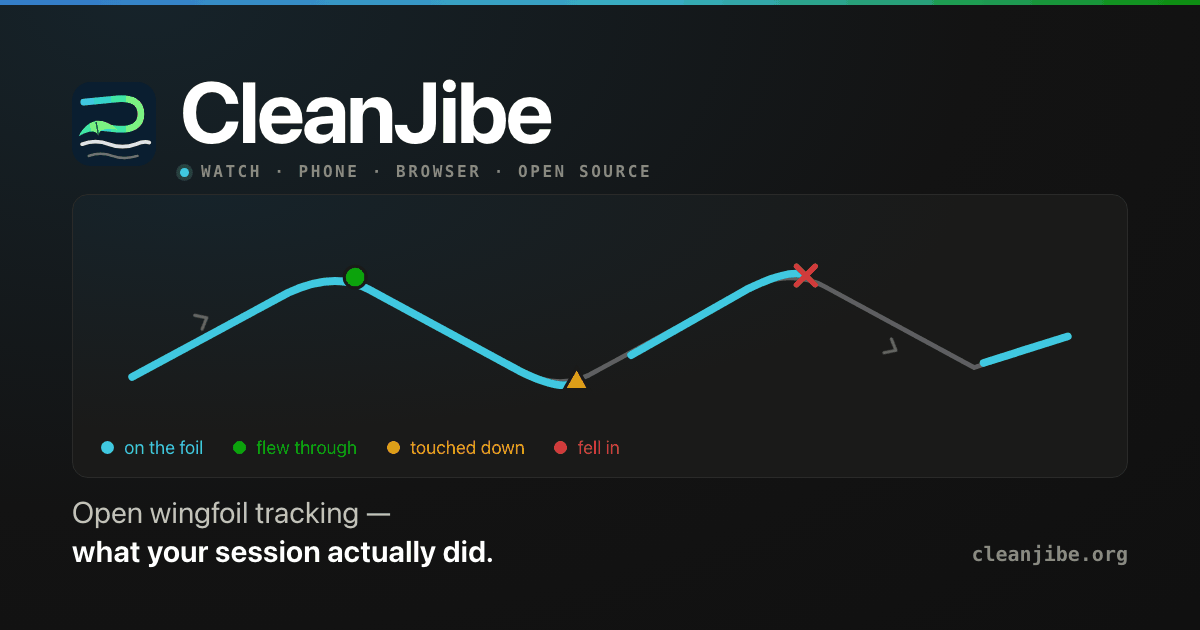
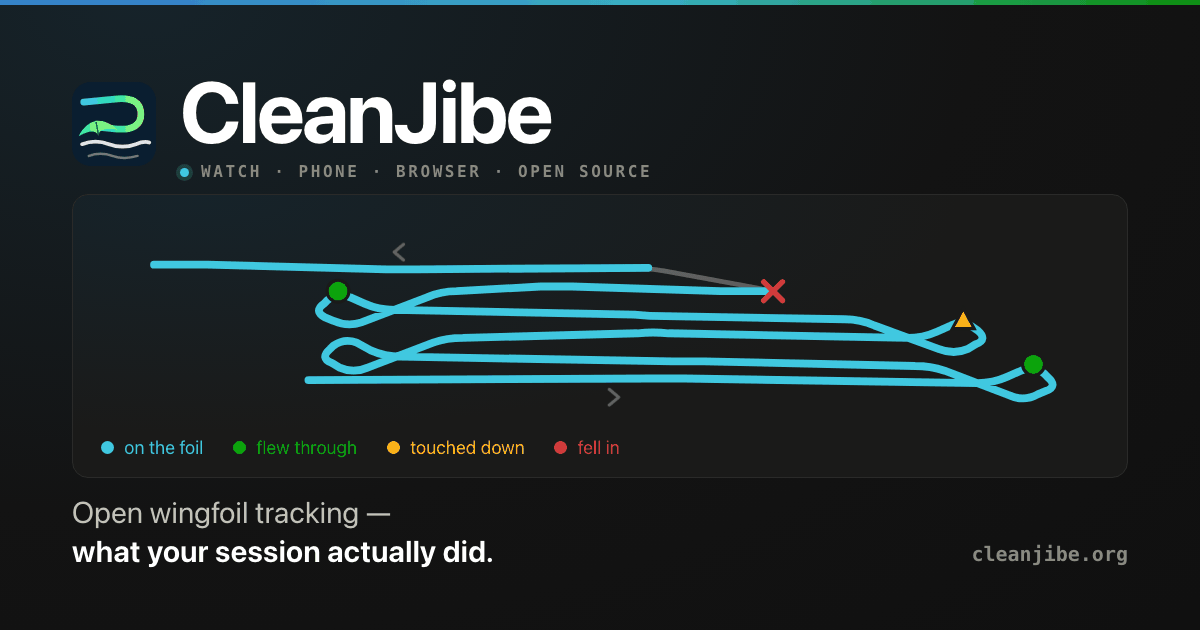
brand: the motif learns what a session actually looks like
The hero's track was an abstract squiggle — a line with two bumps in it. Jan's
note was that it is not what a wingfoil track looks like, and he is right: a
session is a lawn-mower, several roughly parallel cross-wind reaches with the
jibes at their ends and a little drift between the lines.

So the drawing now comes off the bundled example session,
fixtures/sessions/ciq/2026-08-30-1407_nago-torbole-windsurfen_ciq.fit, rotated
so its reaches lie across the 640 x 128 frame. Everything that carries meaning
is measured: five reaches, how long each one is, which end its jibe sits at,
and where in the order the fall and the swim after it come, all read out of the
analyser. Only the spacing is drawn by hand — at true scale 240 m of reach
inside 67 m of drift crosses into a knot, which is a picture of nothing at 5:1.

The jibe is a TEARDROP, not a U-turn: you bear away, carve, and come out
heading back up, so the exit cuts across the entry short of the tip. Every turn
in that file does it. The crossover is the whole tell — without it the pattern
reads as boat turns, or as a snake — so the motif exaggerates it enough to
survive at 190 px wide.

One table, three renditions. The homepage's `<path d>` strings, the share
card's, and the Swift Canvas's are the same characters, so a grep for any of
them is the drift check; the iOS side reads them with a twenty-line reader for
the three commands the motif uses, rather than transcribing numbers a hand can
[…]

Changed region(s): [[0.0925, 0.3921, 0.8942, 0.6635], [0.3083, 0.6937, 0.4317, 0.7238], [0.7708, 0.0, 0.8017, 0.0302]]

diff --git a/ios/WingFoil/Features/Onboarding/WelcomeView.swift b/ios/WingFoil/Features/Onboarding/WelcomeView.swift
@@ -194,19 +194,52 @@ struct WelcomeView: View {
     }
 }
 
-/// The screen's one graphic: a track with two flights on it and the three turn verdicts
-/// marked, in the presentation tokens themselves.
+/// The screen's one graphic: a session's track with its flights on it and the turn
+/// verdicts marked, in the presentation tokens themselves.
 ///
 /// It is the vocabulary rather than decoration — the same drawing the homepage carries as
 /// inline SVG (web/index.html, the hero motif), in the same 640 × 128 frame and with the
 /// same colours, so the two front doors show the same picture. Drawn rather than shipped as
-/// an image: at ~40 lines it costs less than an asset, and it follows the tokens if they
-/// move instead of quietly disagreeing with them.
+/// an image: it costs less than an asset, and it follows the tokens if they move instead of
+/// quietly disagreeing with them.
+///
+/// The shape is the bundled example session's — the reaches, their lengths, which end each
+/// jibe sits at, and where the fall and the swim after it come in the order all read out of
+/// `fixtures/sessions/ciq/2026-08-30-1407_nago-torbole-windsurfen_ciq.fit`; only the even
+/// spacing between the reaches is drawn by hand, because at true scale 240 m of reach inside
+/// 67 m of drift crosses into a knot. The loops are teardrops rather than U-turns: a jibe
+/// exits heading back up, so the exit cuts across the entry short of the tip, and that
+/// crossover is what makes the pattern read as wingfoil at all.
 private struct WelcomeTrackMotif: View {
 
     /// The web motif's viewBox. Keeping the coordinates identical is what makes the two
     /// renditions comparable at all — every number below is readable against the SVG.
     private static let box = CGSize(width: 640, height: 128)
+
+    // The generated geometry, verbatim from web/index.html's `<path d="…">` attributes —
+    // one table in three files (here, the homepage, web/tools/social_card.html), so a
+    // `grep` for any of these strings is the drift check. Regenerate all three together or
+    // not at all; hand-editing one of them is how the front doors start disagreeing.
+
+    /// The whole ride, off the foil.
+    private static let trackD = "M133 102L354 101Q364 101 374 101L562 104Q572 104 581 100L590 96Q598 92 605 98L607 100Q614 106 606 109L601 111Q592 116 583 112L541 96Q532 93 522 93L387 90Q377 90 367 90L192 87Q182 87 173 83L164 78Q156 75 149 80L147 82Q140 88 148 91L153 94Q162 98 171 94L213 78Q222 75 232 75L344 72Q354 71 364 72L517 75Q527 75 536 71L545 67Q553 63 559 68L562 70Q569 76 561 79L556 82Q547 86 537 82L496 67Q487 63 477 63L362 61Q352 61 342 60L188 57Q178 57 169 53L160 49Q152 45 145 51L143 53Q136 58 144 62L149 64Q158 68 167 65L209 49Q218 45 228 45L282 42Q292 42 302 42L397 45Q407 45 417 45L421 45Q431 45 421 43L361 32Q351 30 341 31L203 31Q193 31 183 31L68 28Q58 28 48 28L34 28"
+
+    /// …and the parts of it that were flown: the long flight that ends in the water, then
+    /// the reach home after the swim.
+    private static let foilDs = [
+        "M133 102L354 101Q364 101 374 101L562 104Q572 104 581 100L590 96Q598 92 605 98L607 100Q614 106 606 109L601 111Q592 116 583 112L541 96Q532 93 522 93L387 90Q377 90 367 90L192 87Q182 87 173 83L164 78Q156 75 149 80L147 82Q140 88 148 91L153 94Q162 98 171 94L213 78Q222 75 232 75L344 72Q354 71 364 72L517 75Q527 75 536 71L545 67Q553 63 559 68L562 70Q569 76 561 79L556 82Q547 86 537 82L496 67Q487 63 477 63L362 61Q352 61 342 60L188 57Q178 57 169 53L160 49Q152 45 145 51L143 53Q136 58 144 62L149 64Q158 68 167 65L209 49Q218 45 228 45L282 42Q292 42 302 42L397 45Q407 45 417 45L431 45",
+        "M351 30L203 31Q193 31 183 31L68 28Q58 28 48 28L34 28",
+    ]
+
+    /// The jibes carried, on the apex of the loop each one made.
+    private static let flew = [CGPoint(x: 598, y: 92), CGPoint(x: 152, y: 45)]
+    /// The touchdown. This session flew through every jibe it did not fall in, so this one
+    /// mark is the key's third verdict rather than a reading of the track.
+    private static let touchdown = CGPoint(x: 553, y: 63)
+    /// Where the long flight ended.
+    private static let fellIn = CGPoint(x: 431, y: 45)
+    /// Which way he went, set off the lines: (x, y, pointing left?).
+    private static let arrows: [(CGFloat, CGFloat, Bool)] = [(330, 113, false), (190, 20, true)]
 
     var body: some View {
         Canvas { context, size in
@@ -222,61 +255,96 @@ private struct WelcomeTrackMotif: View {
                 context.stroke(path.applying(transform), with: .color(color), style: style)
             }
 
-            // The whole ride, off the foil…
-            var track = Path()
-            track.move(to: CGPoint(x: 20, y: 100))
-            track.addLine(to: CGPoint(x: 120, y: 46))
-            track.addQuadCurve(to: CGPoint(x: 172, y: 44), control: CGPoint(x: 150, y: 32))
-            track.addLine(to: CGPoint(x: 268, y: 96))
-            track.addQuadCurve(to: CGPoint(x: 318, y: 96), control: CGPoint(x: 296, y: 110))
-            track.addLine(to: CGPoint(x: 414, y: 44))
-            track.addQuadCurve(to: CGPoint(x: 464, y: 42), control: CGPoint(x: 442, y: 30))
-            track.addLine(to: CGPoint(x: 560, y: 94))
-            track.addLine(to: CGPoint(x: 620, y: 74))
-            draw(track, DesignTokens.Phase.offFoil, width: 5)
-
-            // …and the parts of it that were flown, laid over the top.
-            var first = Path()
-            first.move(to: CGPoint(x: 20, y: 100))
-            first.addLine(to: CGPoint(x: 120, y: 46))
-            first.addQuadCurve(to: CGPoint(x: 172, y: 44), control: CGPoint(x: 150, y: 32))
-            first.addLine(to: CGPoint(x: 268, y: 96))
-            first.addQuadCurve(to: CGPoint(x: 305, y: 103), control: CGPoint(x: 296, y: 110))
-            var second = Path()
-            second.move(to: CGPoint(x: 340, y: 86))
-            second.addLine(to: CGPoint(x: 414, y: 44))
-            second.addQuadCurve(to: CGPoint(x: 452, y: 35), control: CGPoint(x: 442, y: 30))
-            var third = Path()
-            third.move(to: CGPoint(x: 566, y: 91))
-            third.addLine(to: CGPoint(x: 620, y: 74))
-            for flight in [first, second, third] {
-                draw(flight, DesignTokens.Phase.flying, width: 5)
+            draw(Self.path(Self.trackD), DesignTokens.Phase.offFoil, width: 3)
+            for d in Self.foilDs {
+                draw(Self.path(d), DesignTokens.Phase.flying, width: 5)
             }
 
-            // Flew through — a green disc on the apex of the first jibe.
-            let flew = Path(ellipseIn: CGRect(x: 156, y: 29, width: 14, height: 14))
-            context.fill(flew.applying(transform),
-                         with: .color(DesignTokens.Outcome.flew))
+            // Which way he went — off the line rather than on it, where a chevron inside a
+            // 5 pt stroke just reads as a nick in the paint.
+            for (x, y, left) in Self.arrows {
+                var chevron = Path()
+                let s: CGFloat = left ? -1 : 1
+                chevron.move(to: CGPoint(x: x - 4 * s, y: y - 5))
+                chevron.addLine(to: CGPoint(x: x + 2 * s, y: y))
+                chevron.addLine(to: CGPoint(x: x - 4 * s, y: y + 5))
+                draw(chevron, DesignTokens.Direction.ink.opacity(0.45), width: 2)
+            }
 
-            // Touched down — the amber triangle where the first flight ends.
-            var touchdown = Path()
-            touchdown.move(to: CGPoint(x: 305, y: 94))
-            touchdown.addLine(to: CGPoint(x: 313, y: 108))
-            touchdown.addLine(to: CGPoint(x: 297, y: 108))
-            touchdown.closeSubpath()
-            context.fill(touchdown.applying(transform),
+            // Flew through — a green disc on each jibe's apex.
+            for centre in Self.flew {
+                let disc = Path(ellipseIn: CGRect(x: centre.x - 7, y: centre.y - 7,
+                                                  width: 14, height: 14))
+                context.fill(disc.applying(transform),
+                             with: .color(DesignTokens.Outcome.flew))
+            }
+
+            // Touched down — the amber triangle.
+            var triangle = Path()
+            triangle.move(to: CGPoint(x: Self.touchdown.x, y: Self.touchdown.y - 7))
+            triangle.addLine(to: CGPoint(x: Self.touchdown.x + 7, y: Self.touchdown.y + 6))
+            triangle.addLine(to: CGPoint(x: Self.touchdown.x - 7, y: Self.touchdown.y + 6))
+            triangle.closeSubpath()
+            context.fill(triangle.applying(transform),
                          with: .color(DesignTokens.Outcome.touchdown))
 
-            // Fell in — the red cross where the second one does.
-            var fell = Path()
-            fell.move(to: CGPoint(x: 446, y: 29))
-            fell.addLine(to: CGPoint(x: 458, y: 41))
-            fell.move(to: CGPoint(x: 458, y: 29))
-            fell.addLine(to: CGPoint(x: 446, y: 41))
-            draw(fell, DesignTokens.Outcome.fellIn, width: 3.5)
+            // Fell in — the red cross where the long flight stops.
+            var cross = Path()
+            cross.move(to: CGPoint(x: Self.fellIn.x - 6, y: Self.fellIn.y - 6))
+            cross.addLine(to: CGPoint(x: Self.fellIn.x + 6, y: Self.fellIn.y + 6))
+            cross.move(to: CGPoint(x: Self.fellIn.x + 6, y: Self.fellIn.y - 6))
+            cross.addLine(to: CGPoint(x: Self.fellIn.x - 6, y: Self.fellIn.y + 6))
+            draw(cross, DesignTokens.Outcome.fellIn, width: 3.5)
         }
         .accessibilityElement()
-        .accessibilityLabel("A wingfoil track: two flights on the foil, a jibe flown "
-                            + "through, a touchdown, and a fall.")
+        .accessibilityLabel("A wingfoil session's track: five cross-wind reaches with "
+                            + "teardrop jibe loops at their ends, two jibes flown through, "
+                            + "one touched down, and a fall with a swim before the last "
+                            + "reach.")
+    }
+
+    /// The slice of SVG path data the motif uses — absolute `M x y`, `L x y`, `Q cx cy x y`
+    /// and nothing else. Reading the strings rather than transcribing them into Swift
+    /// literals is the point: the homepage, the share card and this screen then hold the
+    /// *same* characters, and no hand-copied number can go quietly out of step.
+    private static func path(_ d: String) -> Path {
+        var path = Path()
+        var numbers: [CGFloat] = []
+        var digits = ""
+        var command: Character = " "
+
+        func flush() {
+            if let value = Double(digits) { numbers.append(CGFloat(value)) }
+            digits = ""
+        }
+        func apply() {
+            switch (command, numbers.count) {
+            case ("M", 2):
+                path.move(to: CGPoint(x: numbers[0], y: numbers[1]))
+            case ("L", 2):
+                path.addLine(to: CGPoint(x: numbers[0], y: numbers[1]))
+            case ("Q", 4):
+                path.addQuadCurve(to: CGPoint(x: numbers[2], y: numbers[3]),
+                                  control: CGPoint(x: numbers[0], y: numbers[1]))
+            default:
+                break
+            }
+            numbers = []
+        }
+
+        for character in d {
+            if character.isNumber || character == "." {
+                digits.append(character)
+            } else if character == " " {
+                flush()
+            } else {
+                flush()
+                apply()
+                command = character
+            }
+        }
+        flush()
+        apply()
+        return path
     }
 }

diff --git a/web/index.html b/web/index.html
@@ -89,39 +89,62 @@
     </p>
 
     <!-- The motif is the page's only graphic, and it is the vocabulary rather than
-         decoration: an off-foil track with two flights drawn on it and the three turn
+         decoration: an off-foil track with the flights drawn on it and the three turn
          outcomes marked in the presentation tokens themselves (design/tokens.json —
          green disc flew, amber triangle touched down, red cross fell in), exactly as the
-         apps draw them. Inline SVG, ~2 KB, no request, no image to scale badly. -->
+         apps draw them. Inline SVG, ~2 KB, no request, no image to scale badly.
+
+         The SHAPE is the bundled example session's, not an invention:
+         fixtures/sessions/ciq/2026-08-30-1407_nago-torbole-windsurfen_ciq.fit, rotated so
+         its reaches lie across the frame. What the drawing takes from the file is
+         everything that carries meaning — five cross-wind reaches, how long each one is,
+         which end its jibe sits at, and where in the order the fall and the swim after it
+         come. What it draws by hand is the spacing: laid out at true scale the reaches
+         cross into a knot, because 240 m of reach inside 67 m of drift is unreadable at
+         5:1, so they sit on even bands instead.
+
+         The jibe is a TEARDROP, not a U-turn. You bear away, carve, and come out heading
+         back up, so the exit cuts across the entry a short way back from the tip — every
+         turn in that file does it. The crossover is the thing that makes the pattern read
+         "wingfoil" rather than "boat" or "snake", so the motif exaggerates it enough to
+         survive at 190 px wide.
+
+         The one mark the drawing places rather than reads is the amber triangle: this
+         session flew through every jibe it did not fall in, and the motif has to carry all
+         three verdicts because it is also the key below it. -->
     <div class="motif">
       <!-- The colours come from classes in css/home.css rather than from `stroke="var(…)"`:
            a custom property in an SVG *presentation attribute* is not reliably honoured,
-           whereas the same property applied by a stylesheet rule always is. -->
-      <svg viewBox="0 0 640 128" role="img" aria-label="A wingfoil track: two flights on the foil, a jibe flown through, a touchdown, and a fall.">
-        <!-- the whole track, off foil -->
-        <path class="m-track" d="M20 100 L120 46 Q150 32 172 44 L268 96 Q296 110 318 96 L414 44 Q442 30 464 42 L560 94 L620 74"/>
+           whereas the same property applied by a stylesheet rule always is.
 
-        <!-- flight one: up the leg, through the jibe, ending in a touchdown -->
-        <path class="m-foil" d="M20 100 L120 46 Q150 32 172 44 L268 96 Q296 110 305 103"/>
-        <!-- flight two: away again, and this one ends in the water -->
-        <path class="m-foil" d="M340 86 L414 44 Q442 30 452 35"/>
-        <!-- and up on the foil once more before the frame runs out -->
-        <path class="m-foil" d="M566 91 L620 74"/>
+           The three path strings below are generated, and the iOS welcome screen
+           (ios/WingFoil/Features/Onboarding/WelcomeView.swift) and the share card
+           (web/tools/social_card.html) carry the same strings character for character —
+           one table, three renditions, so `grep` catches any drift. -->
+      <svg viewBox="0 0 640 128" role="img" aria-label="A wingfoil session's track: five cross-wind reaches with teardrop jibe loops at their ends, two jibes flown through, one touched down, and a fall with a swim before the last reach.">
+        <!-- the whole ride, off foil -->
+        <path class="m-track" d="M133 102L354 101Q364 101 374 101L562 104Q572 104 581 100L590 96Q598 92 605 98L607 100Q614 106 606 109L601 111Q592 116 583 112L541 96Q532 93 522 93L387 90Q377 90 367 90L192 87Q182 87 173 83L164 78Q156 75 149 80L147 82Q140 88 148 91L153 94Q162 98 171 94L213 78Q222 75 232 75L344 72Q354 71 364 72L517 75Q527 75 536 71L545 67Q553 63 559 68L562 70Q569 76 561 79L556 82Q547 86 537 82L496 67Q487 63 477 63L362 61Q352 61 342 60L188 57Q178 57 169 53L160 49Q152 45 145 51L143 53Q136 58 144 62L149 64Q158 68 167 65L209 49Q218 45 228 45L282 42Q292 42 302 42L397 45Q407 45 417 45L421 45Q431 45 421 43L361 32Q351 30 341 31L203 31Q193 31 183 31L68 28Q58 28 48 28L34 28"/>
 
-        <!-- which way he went — set off the line rather than on it, where a 2 px chevron
+        <!-- the long flight: four reaches, four jibes carried, and then the water -->
+        <path class="m-foil" d="M133 102L354 101Q364 101 374 101L562 104Q572 104 581 100L590 96Q598 92 605 98L607 100Q614 106 606 109L601 111Q592 116 583 112L541 96Q532 93 522 93L387 90Q377 90 367 90L192 87Q182 87 173 83L164 78Q156 75 149 80L147 82Q140 88 148 91L153 94Q162 98 171 94L213 78Q222 75 232 75L344 72Q354 71 364 72L517 75Q527 75 536 71L545 67Q553 63 559 68L562 70Q569 76 561 79L556 82Q547 86 537 82L496 67Q487 63 477 63L362 61Q352 61 342 60L188 57Q178 57 169 53L160 49Q152 45 145 51L143 53Q136 58 144 62L149 64Q158 68 167 65L209 49Q218 45 228 45L282 42Q292 42 302 42L397 45Q407 45 417 45L431 45"/>
+        <!-- up again after the swim, and this reach runs the frame out -->
+        <path class="m-foil" d="M351 30L203 31Q193 31 183 31L68 28Q58 28 48 28L34 28"/>
+
+        <!-- which way he went — set off the lines rather than on them, where a 2 px chevron
              inside a 5 px stroke just reads as a nick in the paint -->
         <g class="m-dir">
-          <path d="M-4 -5 L2 0 L-4 5" transform="translate(66,63) rotate(-28.4)"/>
-          <path d="M-4 -5 L2 0 L-4 5" transform="translate(508,82) rotate(28.4)"/>
+          <path d="M-4 -5 L2 0 L-4 5" transform="translate(330,113)"/>
+          <path d="M-4 -5 L2 0 L-4 5" transform="translate(190,20) rotate(180)"/>
         </g>
 
         <!-- flew through -->
-        <circle class="m-flew" cx="163" cy="36" r="7"/>
+        <circle class="m-flew" cx="598" cy="92" r="7"/>
+        <circle class="m-flew" cx="152" cy="45" r="7"/>
         <!-- touched down -->
-        <path class="m-touch" d="M305 94 L313 108 L297 108 Z"/>
+        <path class="m-touch" d="M553 56 L560 69 L546 69 Z"/>
         <!-- fell in -->
         <g class="m-fell">
-          <path d="M446 29 L458 41"/><path d="M458 29 L446 41"/>
+          <path d="M425 39 L437 51"/><path d="M437 39 L425 51"/>
         </g>
       </svg>
       <p class="motif-key">

diff --git a/web/tools/social_card.html b/web/tools/social_card.html
@@ -143,21 +143,22 @@
     </div>
   </div>
 
-  <!-- The homepage hero's motif, geometry unchanged (web/index.html). -->
+  <!-- The homepage hero's motif, geometry unchanged (web/index.html) — the same generated
+       path strings, character for character, so a diff of the two files catches drift. -->
   <div class="motif">
     <svg viewBox="0 0 640 128">
-      <path class="m-track" d="M20 100 L120 46 Q150 32 172 44 L268 96 Q296 110 318 96 L414 44 Q442 30 464 42 L560 94 L620 74"/>
-      <path class="m-foil" d="M20 100 L120 46 Q150 32 172 44 L268 96 Q296 110 305 103"/>
-      <path class="m-foil" d="M340 86 L414 44 Q442 30 452 35"/>
-      <path class="m-foil" d="M566 91 L620 74"/>
+      <path class="m-track" d="M133 102L354 101Q364 101 374 101L562 104Q572 104 581 100L590 96Q598 92 605 98L607 100Q614 106 606 109L601 111Q592 116 583 112L541 96Q532 93 522 93L387 90Q377 90 367 90L192 87Q182 87 173 83L164 78Q156 75 149 80L147 82Q140 88 148 91L153 94Q162 98 171 94L213 78Q222 75 232 75L344 72Q354 71 364 72L517 75Q527 75 536 71L545 67Q553 63 559 68L562 70Q569 76 561 79L556 82Q547 86 537 82L496 67Q487 63 477 63L362 61Q352 61 342 60L188 57Q178 57 169 53L160 49Q152 45 145 51L143 53Q136 58 144 62L149 64Q158 68 167 65L209 49Q218 45 228 45L282 42Q292 42 302 42L397 45Q407 45 417 45L421 45Q431 45 421 43L361 32Q351 30 341 31L203 31Q193 31 183 31L68 28Q58 28 48 28L34 28"/>
+      <path class="m-foil" d="M133 102L354 101Q364 101 374 101L562 104Q572 104 581 100L590 96Q598 92 605 98L607 100Q614 106 606 109L601 111Q592 116 583 112L541 96Q532 93 522 93L387 90Q377 90 367 90L192 87Q182 87 173 83L164 78Q156 75 149 80L147 82Q140 88 148 91L153 94Q162 98 171 94L213 78Q222 75 232 75L344 72Q354 71 364 72L517 75Q527 75 536 71L545 67Q553 63 559 68L562 70Q569 76 561 79L556 82Q547 86 537 82L496 67Q487 63 477 63L362 61Q352 61 342 60L188 57Q178 57 169 53L160 49Q152 45 145 51L143 53Q136 58 144 62L149 64Q158 68 167 65L209 49Q218 45 228 45L282 42Q292 42 302 42L397 45Q407 45 417 45L431 45"/>
+      <path class="m-foil" d="M351 30L203 31Q193 31 183 31L68 28Q58 28 48 28L34 28"/>
       <g class="m-dir">
-        <path d="M-4 -5 L2 0 L-4 5" transform="translate(66,63) rotate(-28.4)"/>
-        <path d="M-4 -5 L2 0 L-4 5" transform="translate(508,82) rotate(28.4)"/>
+        <path d="M-4 -5 L2 0 L-4 5" transform="translate(330,113)"/>
+        <path d="M-4 -5 L2 0 L-4 5" transform="translate(190,20) rotate(180)"/>
       </g>
-      <circle class="m-flew" cx="163" cy="36" r="7"/>
-      <path class="m-touch" d="M305 94 L313 108 L297 108 Z"/>
+      <circle class="m-flew" cx="598" cy="92" r="7"/>
+      <circle class="m-flew" cx="152" cy="45" r="7"/>
+      <path class="m-touch" d="M553 56 L560 69 L546 69 Z"/>
       <g class="m-fell">
-        <path d="M446 29 L458 41"/><path d="M458 29 L446 41"/>
+        <path d="M425 39 L437 51"/><path d="M437 39 L425 51"/>
       </g>
     </svg>
     <p class="key">
